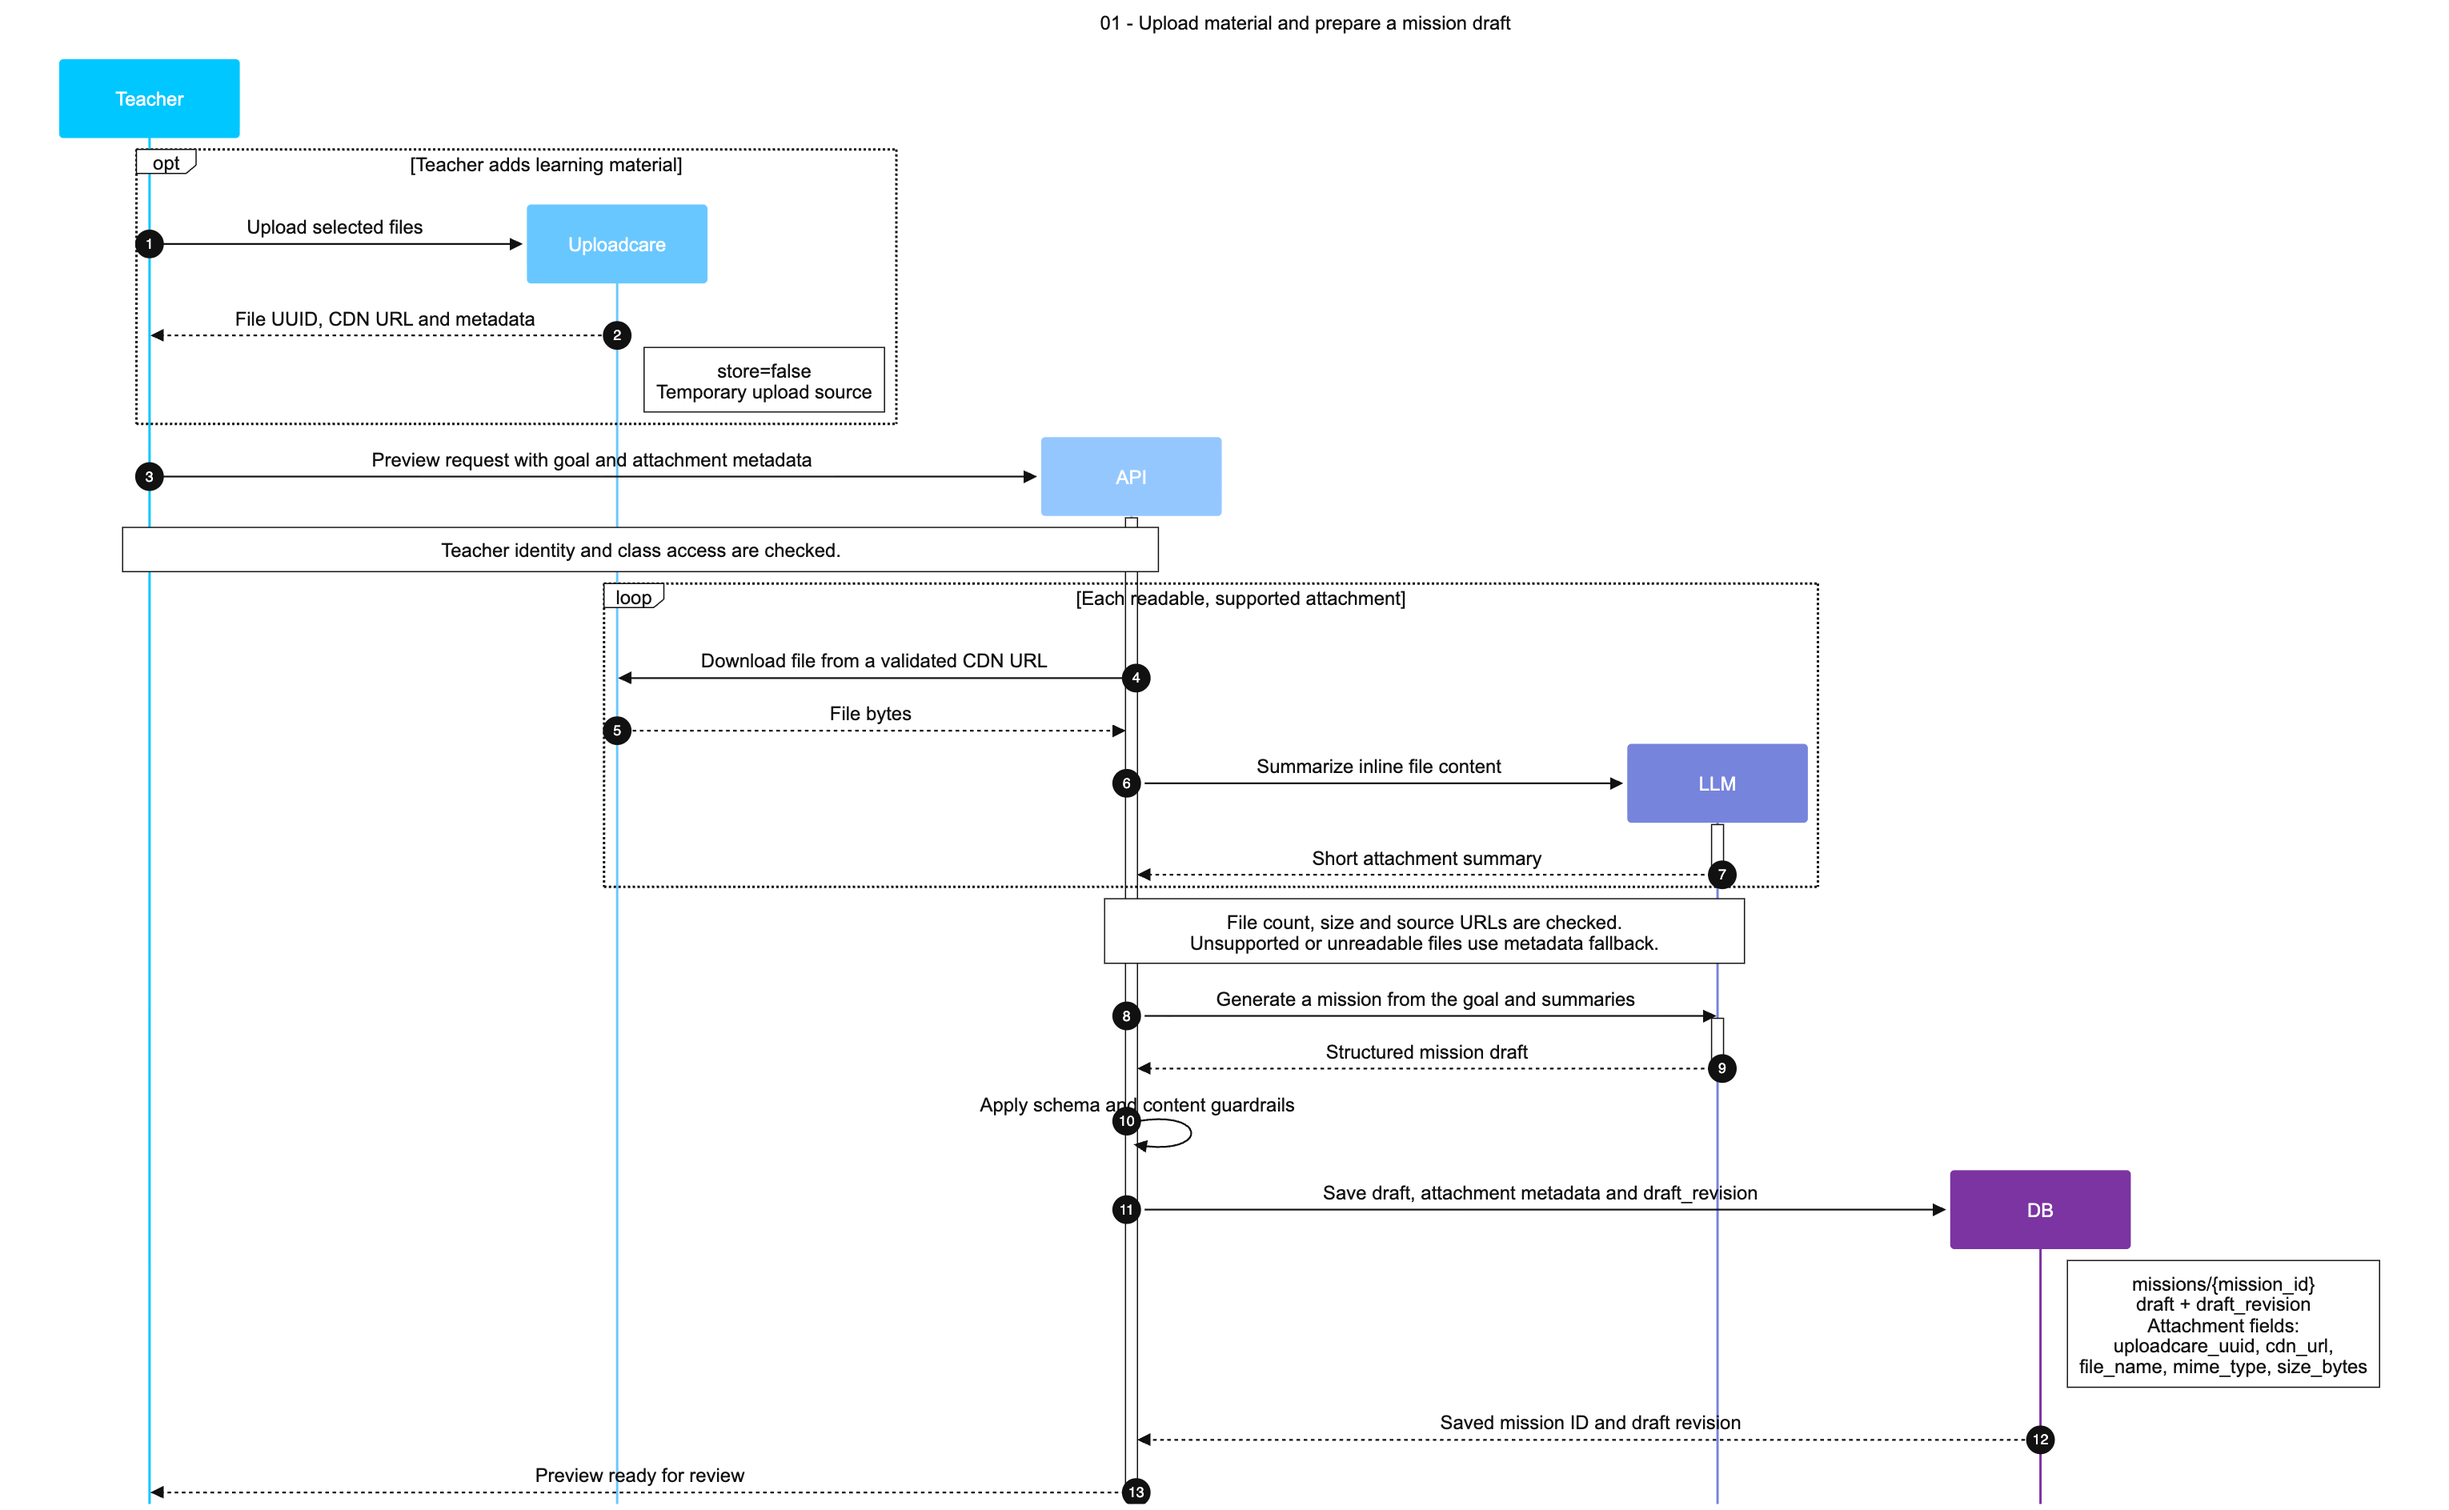
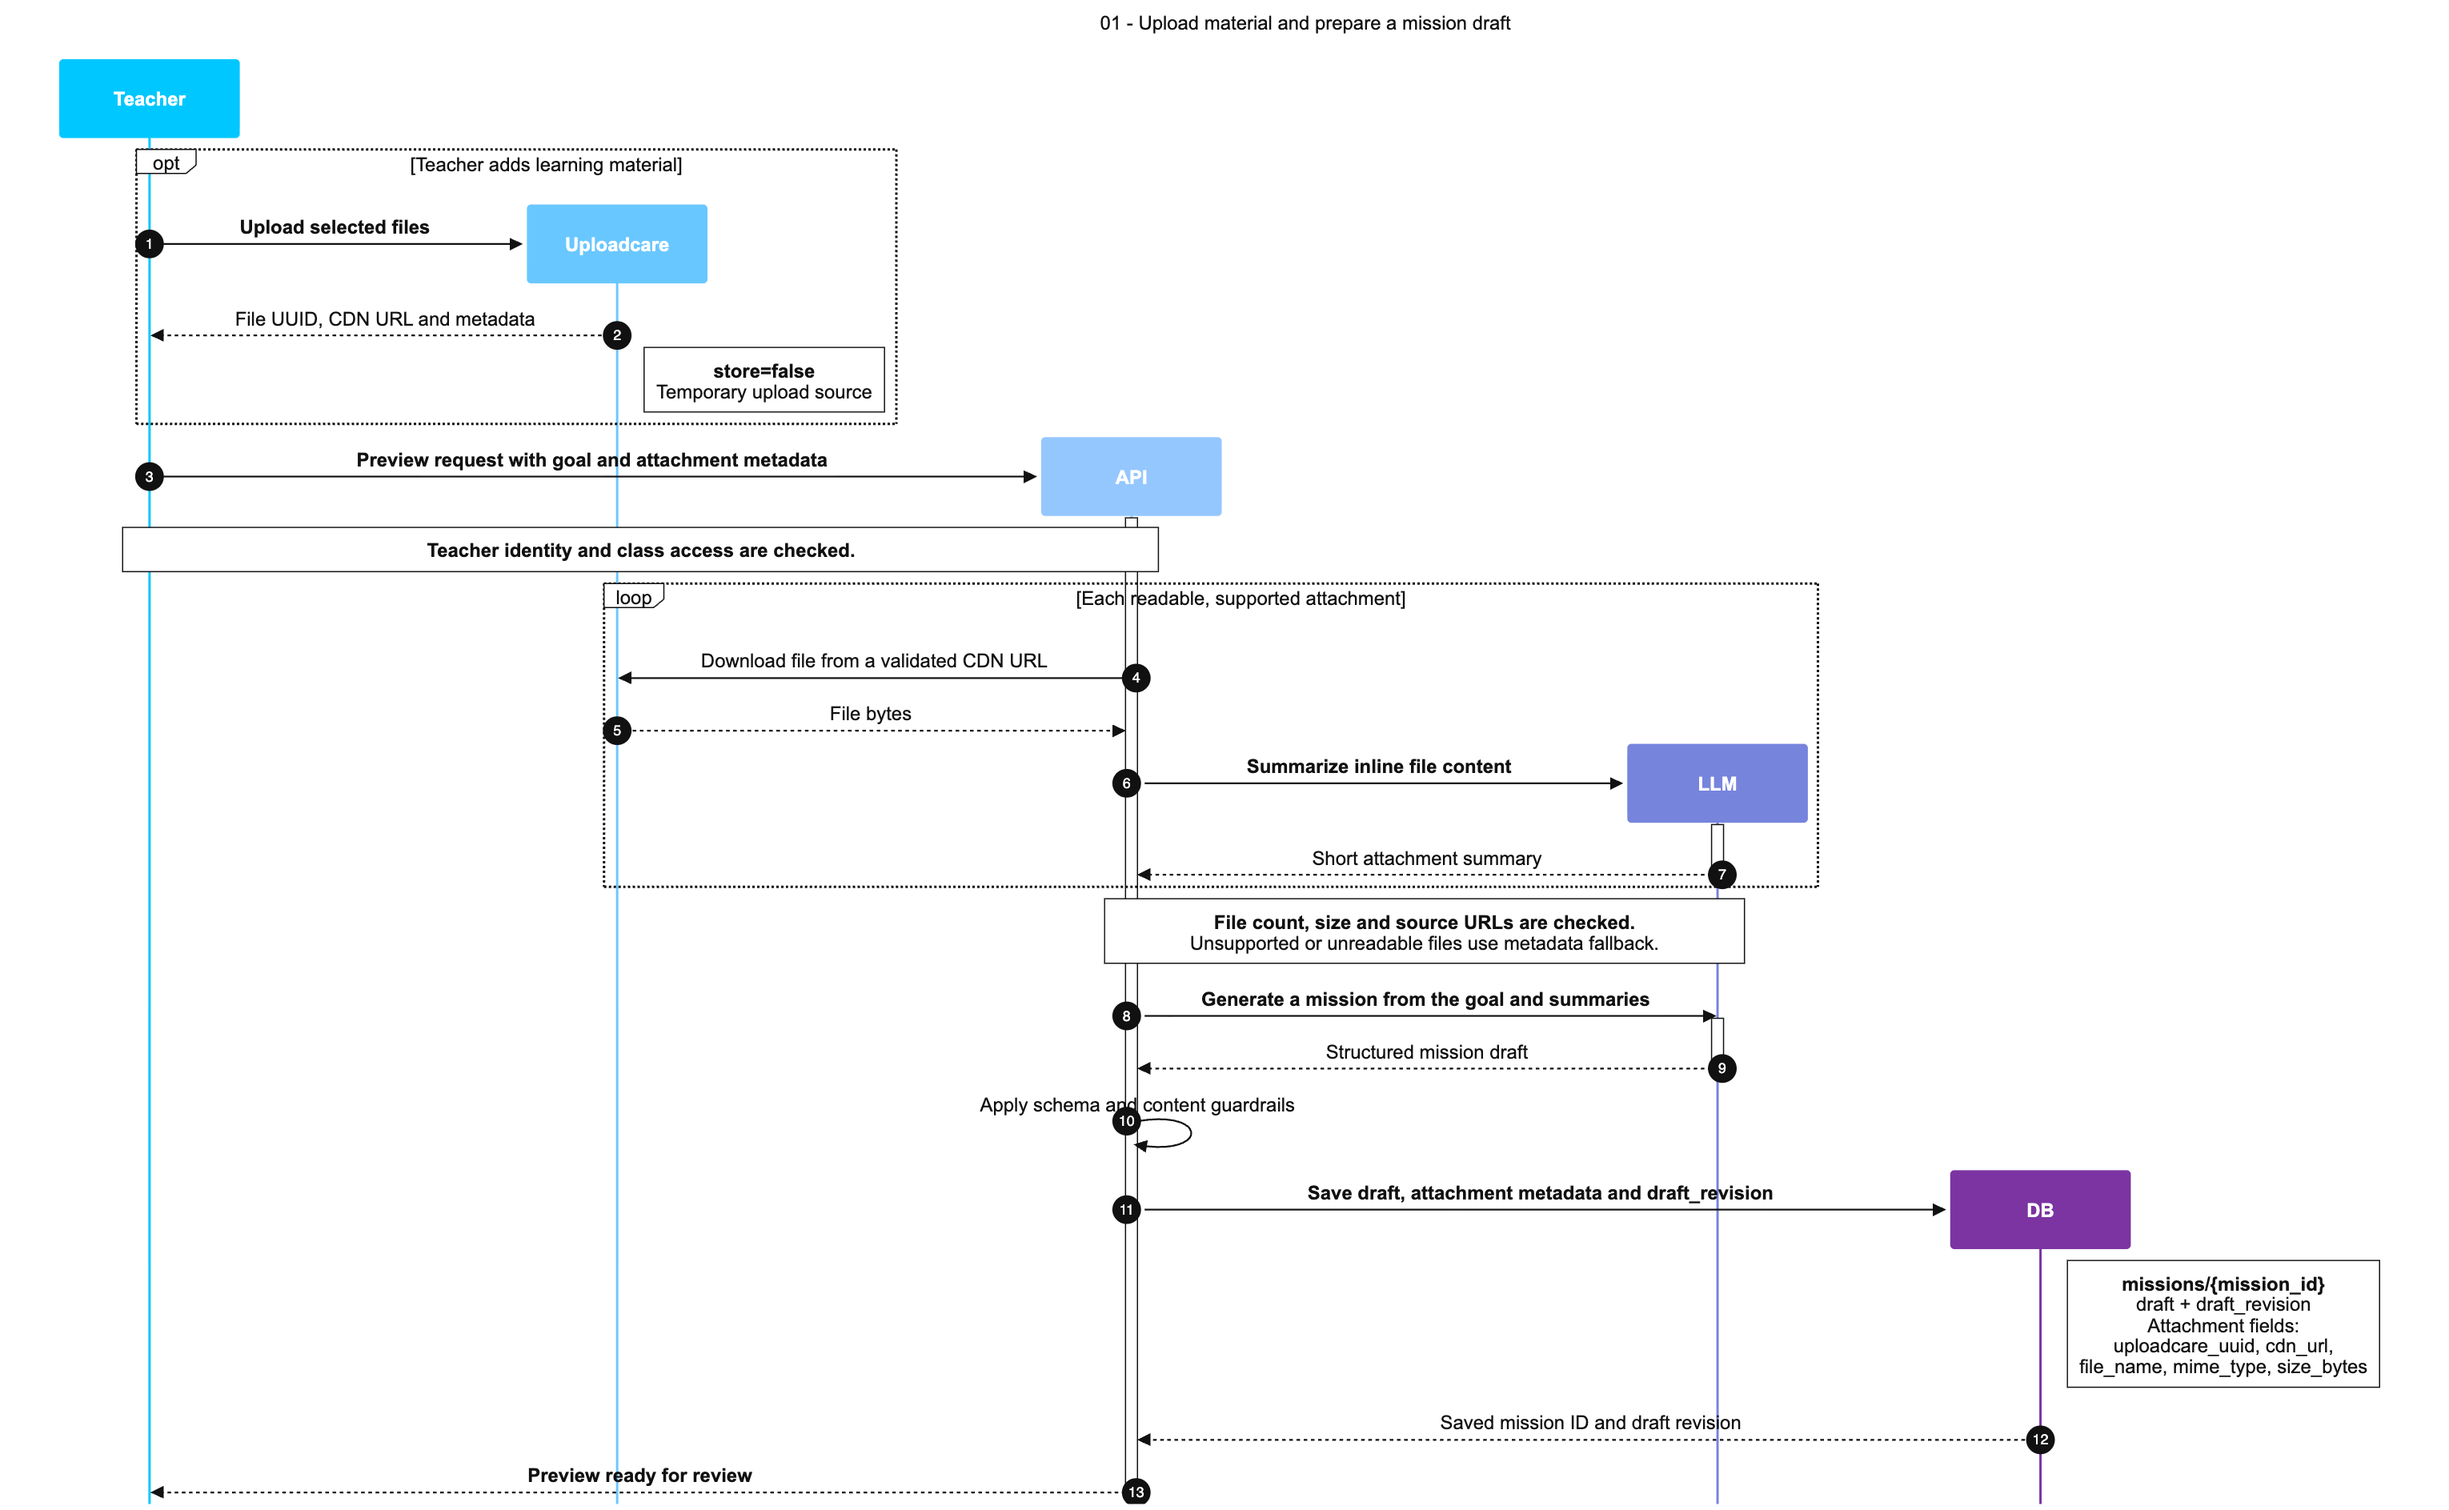
docs(steps): emphasize mission draft actions

diff --git a/assets/diagrams/steps/01-mission-draft/README.md b/assets/diagrams/steps/01-mission-draft/README.md
@@ -2,9 +2,9 @@
 
 [Open the full PNG](diagram.png) · [Mermaid source](SEQUENCE.txt)
 
-The teacher uploads optional material to Uploadcare. The API checks access, downloads supported files, requests short LLM summaries, generates the mission, and saves the draft in Firestore. Action 13 returns the preview for teacher review.
+The teacher uploads **optional material** to Uploadcare. The API **checks access**, downloads supported files, requests short LLM summaries, generates the mission, and **saves the draft in Firestore**. **Action 13** returns the preview for teacher review.
 
-All participants use normal boxes, white labels, and a blue-to-purple palette on a white background. Boxes appear at first use. The `create participant` commands control this static layout; the services already exist. Without attachments, the API skips file summaries and still generates a draft.
+All participants use normal boxes, white labels, and a blue-to-purple palette on a white background. Boxes appear at first use. The `create participant` commands control this static layout; the services already exist. **Without attachments**, the API skips file summaries and still generates a draft.
 
 ## Regenerate
 
